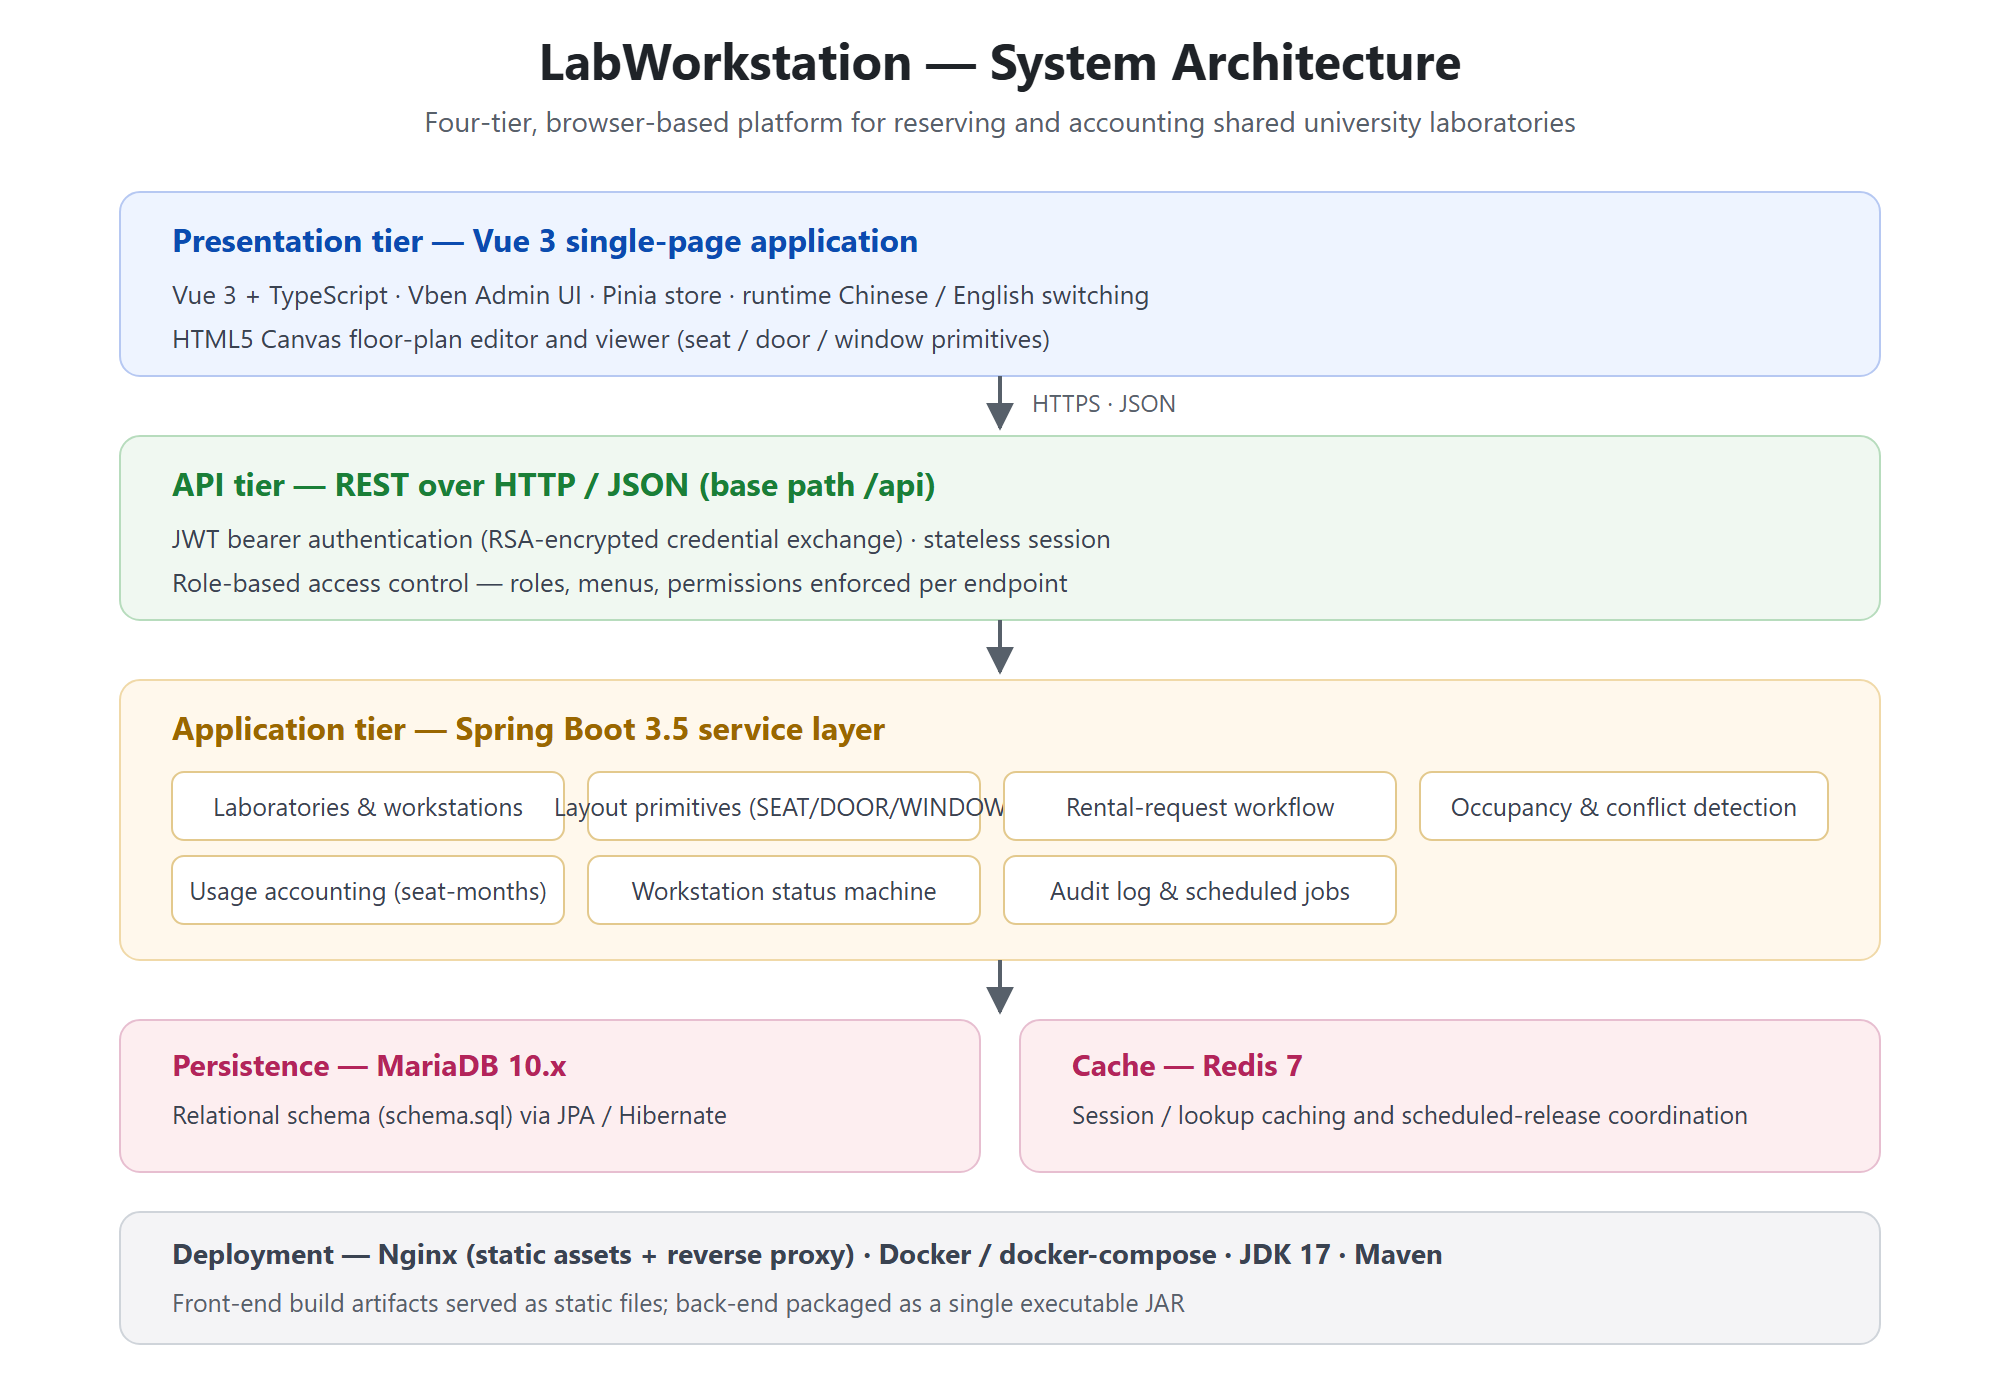
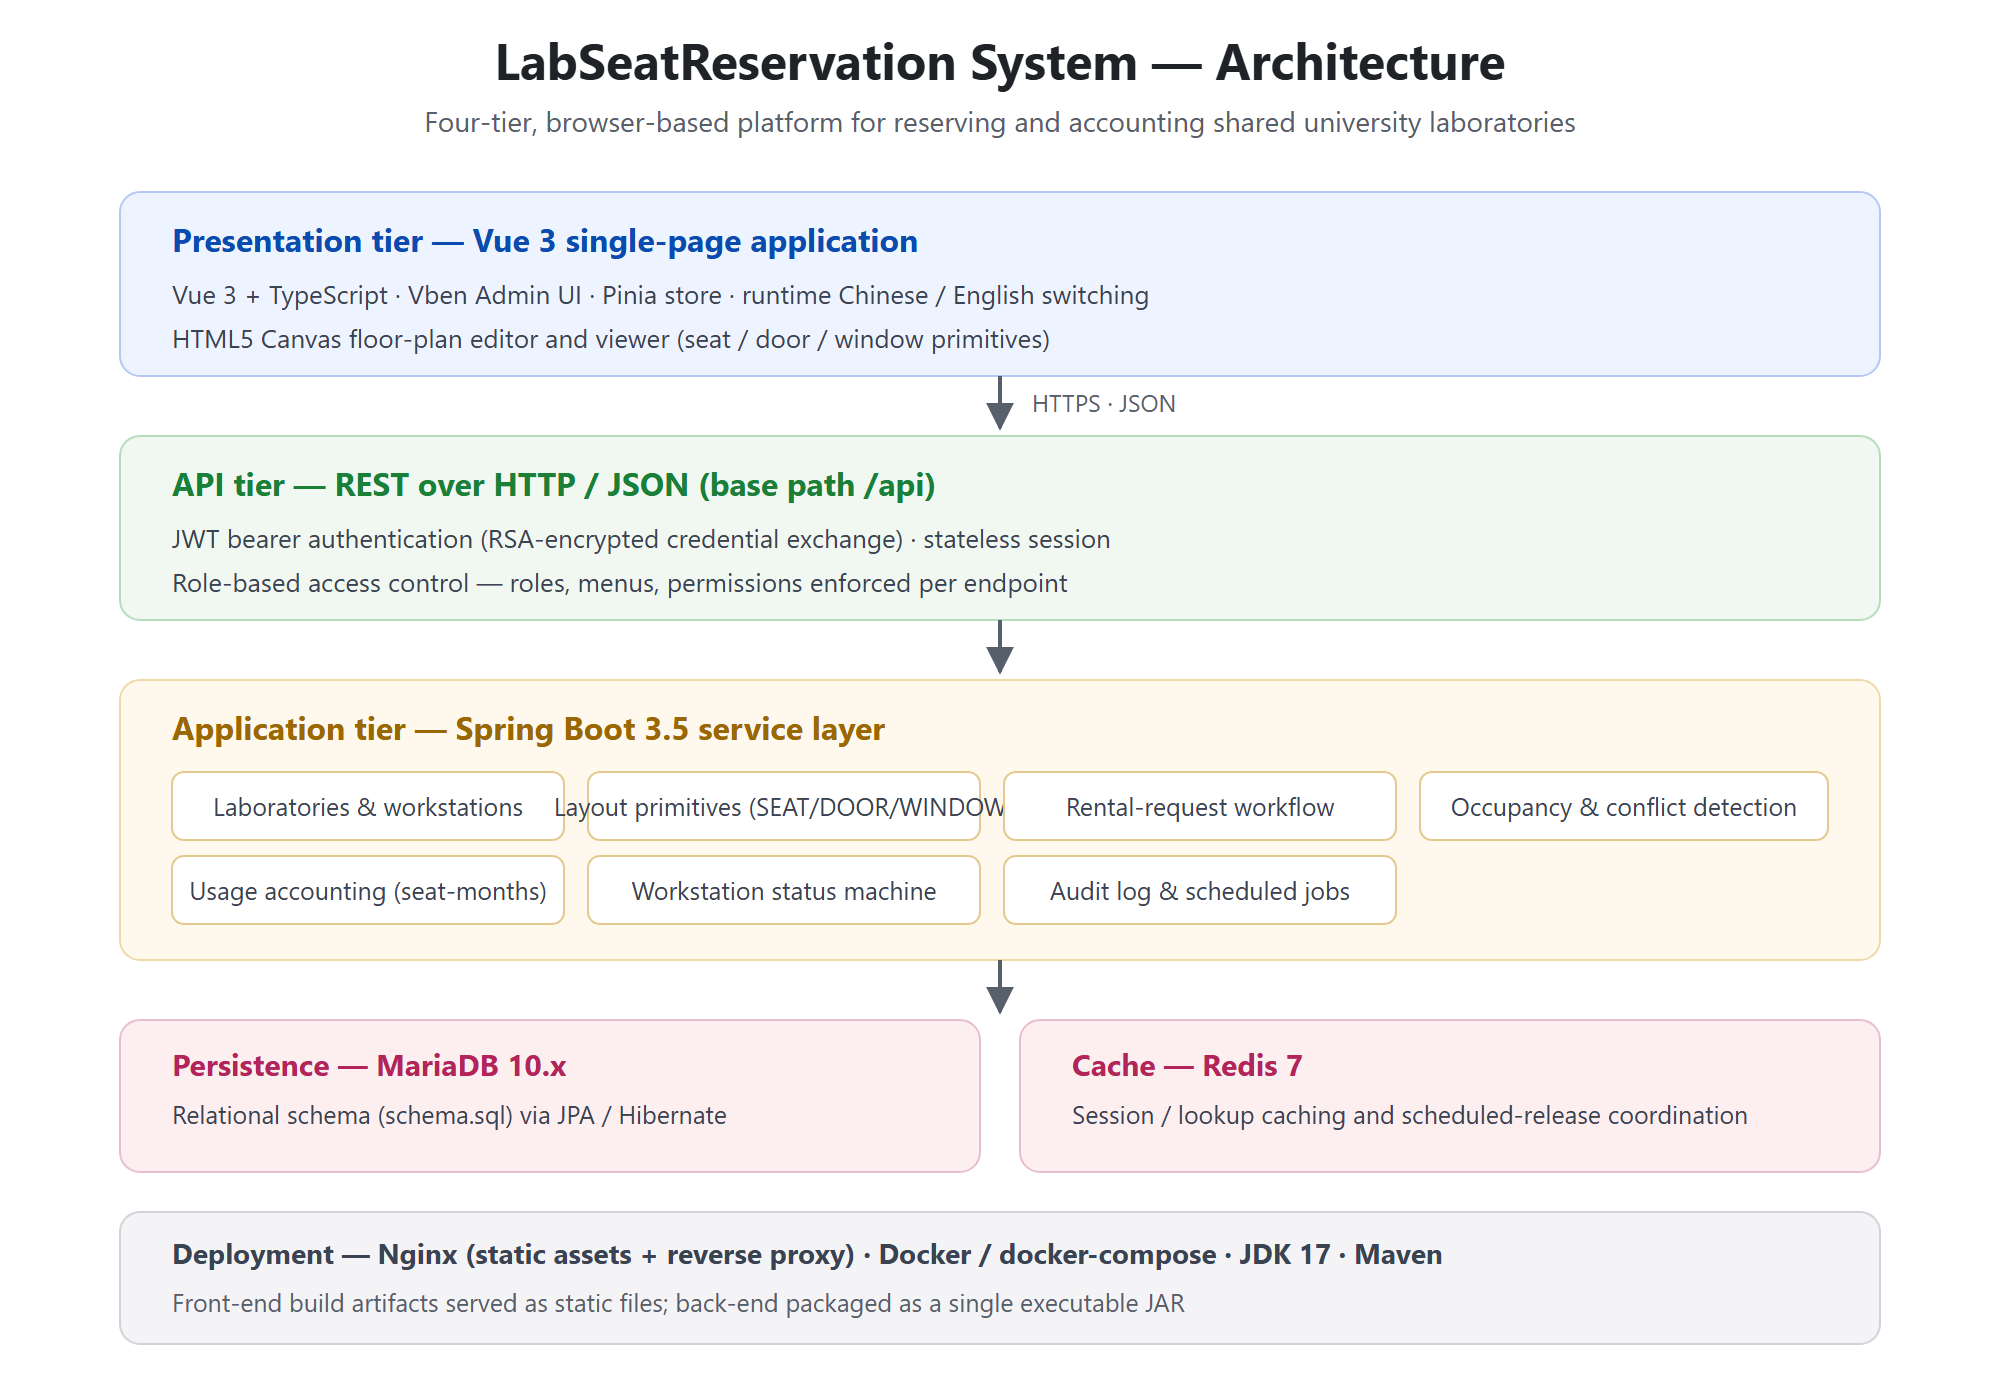
docs: rename project to LabSeatReservation System (align with paper title)

Changed region(s): [[0.248, 0.0307, 0.775, 0.0614]]

diff --git a/README.md b/README.md
@@ -1,4 +1,4 @@
-# LabWorkstation
+# LabSeatReservation System
 
 [![License: MIT](https://img.shields.io/badge/License-MIT-yellow.svg)](LICENSE)
 [![Version](https://img.shields.io/badge/version-1.0.0-blue.svg)](https://github.com/tiangao96/Gao1/releases)
@@ -7,13 +7,13 @@
 [![Vue](https://img.shields.io/badge/Vue-3-42b883.svg)](https://vuejs.org/)
 [![DOI](https://img.shields.io/badge/DOI-pending-lightgrey.svg)](#citation)
 
-**LabWorkstation** is an open-source, browser-based platform that turns the management of shared
+**LabSeatReservation** is an open-source, browser-based platform that turns the management of shared
 university laboratories into a single accountable workflow. It **visualizes seat allocation on
 editable floor plans**, runs a **reviewed reservation workflow**, and **derives monthly
 occupancy-based space charges automatically** from the same occupancy records.
 
 > Companion paper: *Visualizing seat allocation and automating space-charge calculations in shared
-> university laboratories: The LabWorkstation platform* (submitted to **SoftwareX**).
+> university laboratories: The LabSeatReservation System* (submitted to **SoftwareX**).
 
 ![Laboratory floor plan showing the current state of every seat](docs/images/fig6-floorplan.png)
 
@@ -26,7 +26,7 @@ occupancy-based space charges automatically** from the same occupancy records.
 Managing shared research laboratories involves complex challenges in safety accountability,
 multi-facility seat allocation, and occupancy-based space-charge calculation. Traditional
 spreadsheet-based tracking fragments group allocation views across rooms and hinders historical
-billing traceability. To address these issues, we present **LabWorkstation**, an open-source web
+billing traceability. To address these issues, we present **LabSeatReservation**, an open-source web
 application that unifies seat lifecycle management with a real-time floor-plan interface and an
 automated historical accounting engine. A five-state machine (`IDLE`, `PRE_RESERVED`, `OCCUPIED`,
 `MAINTENANCE`, `DISABLED`) with dual-stage conflict detection prevents two groups from taking the
@@ -49,7 +49,7 @@ companion paper; laboratory and group names anonymized).
 
 ---
 
-## Why LabWorkstation?
+## Why LabSeatReservation?
 
 In shared laboratories, workstations are treated as common resources that move between research
 groups, go to maintenance, and are charged back by occupied floor area. These events — the group
@@ -57,7 +57,7 @@ responsible, the occupancy interval and the floor area — are usually kept in s
 change often, the same seat ends up counted twice, and the monthly charge is recomputed by hand
 every time.
 
-LabWorkstation keeps one source of truth instead: a **floor plan**, an **occupancy history** and a
+LabSeatReservation keeps one source of truth instead: a **floor plan**, an **occupancy history** and a
 **monthly accounting view** are all derived from the same records, so no figure has to be
 re-entered.
 
@@ -180,12 +180,12 @@ concurrent editing of the same floor plan) is not yet characterized.
 
 ## Citation
 
-If you use LabWorkstation in academic work, please cite it. Machine-readable metadata is provided in
+If you use LabSeatReservation in academic work, please cite it. Machine-readable metadata is provided in
 [`CITATION.cff`](CITATION.cff); a DOI will be minted via Zenodo on the first archived release.
 
 ```bibtex
-@software{labworkstation,
-  title        = {LabWorkstation: Visualizing seat allocation and automating space-charge
+@software{labseatreservation,
+  title        = {LabSeatReservation System: Visualizing seat allocation and automating space-charge
                   calculations in shared university laboratories},
   author       = {Gao, Tian and Ye, AiPeng and Huang, GuiJian and Gao, ZhiJian and Ou, Yang Yang},
   year         = {2026},
